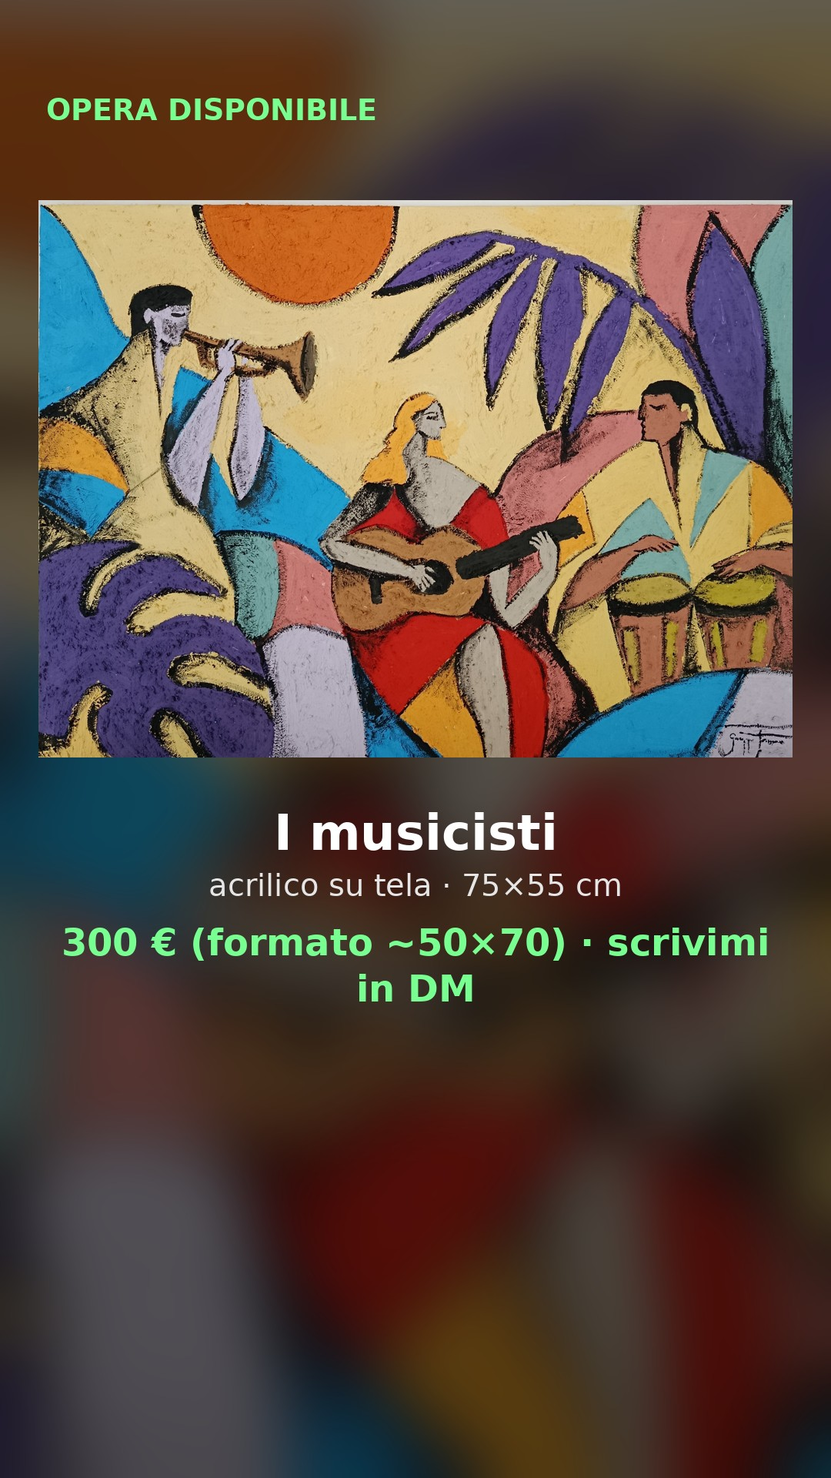
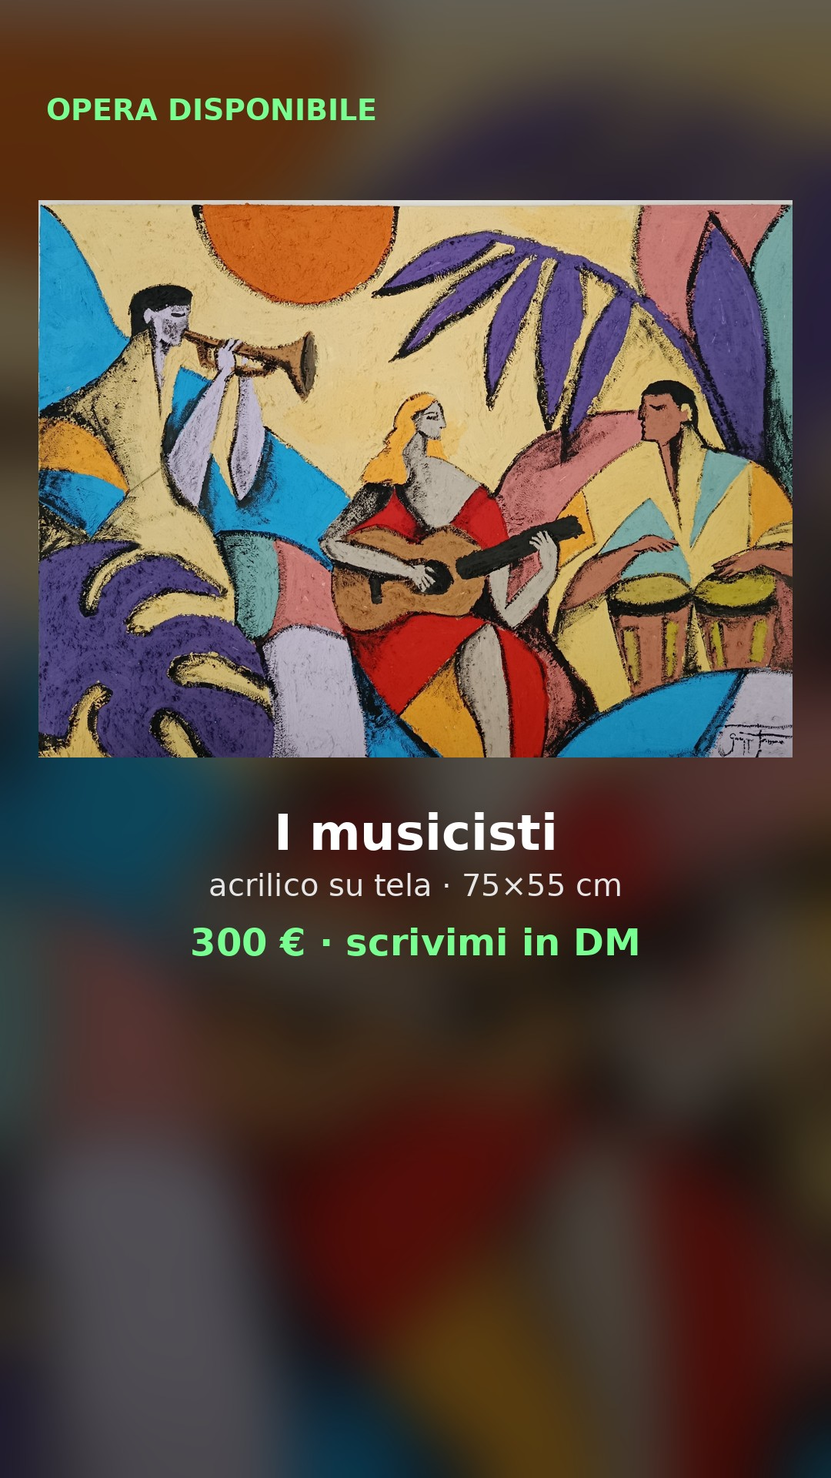
storie e catalogo aggiornati

Changed region(s): [[0.0611, 0.625, 0.9472, 0.6875]]

diff --git a/index.html b/index.html
@@ -16,7 +16,7 @@ figure img{width:100%;aspect-ratio:1/1;object-fit:cover;display:block}figcaption
 <p><a href="https://www.instagram.com/giuseppe.ferraro.86/">Instagram</a> · <a href="https://it.pinterest.com/gferraro86/">Pinterest</a> · per acquisti e commissioni: <a href="https://ig.me/m/giuseppe.ferraro.86">messaggio su Instagram</a></p></header>
 <section><h2>Opere disponibili</h2>
 <div class="nota">Opere originali firmate, con certificato di autenticità. Prezzi da 250 €. Consegna a mano a Napoli e provincia; spedizione in Italia a carico dell'acquirente (30-50 €). Faccio anche <strong>opere su misura</strong>: formato, soggetto, colori, cosa vuoi che racconti; lo stile è il mio. Tempi 1-2 settimane, acconto 30 %.</div>
-<div class="griglia"><figure><a href="#"><img src="opere/i-musicisti.jpg" alt="I musicisti" loading="lazy"></a><figcaption><h3>I musicisti</h3><p class="scheda">acrilico su tela · 75×55 cm · 2026</p><p class="prezzo">300 € (formato ~50×70) · <a href="https://ig.me/m/giuseppe.ferraro.86">scrivimi</a></p></figcaption></figure><figure><a href="https://www.instagram.com/reel/DbJCoHTsluN/"><img src="opere/donna-col-sombrero.jpg" alt="Donna col sombrero" loading="lazy"></a><figcaption><h3>Donna col sombrero</h3><p class="scheda">acrilico su tela · 50×70 cm · 2026</p><p class="prezzo">300 € · <a href="https://ig.me/m/giuseppe.ferraro.86">scrivimi</a></p></figcaption></figure><figure><a href="https://www.instagram.com/p/DQRhOVSjPGg/"><img src="opere/medusa.jpg" alt="Medusa" loading="lazy"></a><figcaption><h3>Medusa</h3><p class="scheda">acrilico su tela · 40×60 cm · 2025</p><p class="prezzo">250 € · <a href="https://ig.me/m/giuseppe.ferraro.86">scrivimi</a></p></figcaption></figure><figure><a href="https://www.instagram.com/p/DPt5XrRjHWL/"><img src="opere/i-tre-cavalli.jpg" alt="I tre cavalli" loading="lazy"></a><figcaption><h3>I tre cavalli</h3><p class="scheda">acrilico su tela · 90×60 cm · 2025</p><p class="prezzo">400 € · <a href="https://ig.me/m/giuseppe.ferraro.86">scrivimi</a></p></figcaption></figure><figure><a href="https://www.instagram.com/p/DOlR2BRjJBm/"><img src="opere/minotauro.jpg" alt="Minotauro" loading="lazy"></a><figcaption><h3>Minotauro</h3><p class="scheda">acrilico su tela · 40×60 cm · 2025</p><p class="prezzo">250 € · <a href="https://ig.me/m/giuseppe.ferraro.86">scrivimi</a></p></figcaption></figure><figure><a href="https://www.instagram.com/p/DKCzzQ3if0d/"><img src="opere/l-uomo-sulla-casa.jpg" alt="L'uomo sulla casa" loading="lazy"></a><figcaption><h3>L'uomo sulla casa</h3><p class="scheda">acrilico su tela · 100×100 cm · 2025</p><p class="prezzo">600 € · <a href="https://ig.me/m/giuseppe.ferraro.86">scrivimi</a></p></figcaption></figure><figure><a href="https://www.instagram.com/p/DDmhgxNC6IF/"><img src="opere/uomo-che-passeggia-di-notte-sul-sentiero-giallo.jpg" alt="Uomo che passeggia di notte sul sentiero giallo" loading="lazy"></a><figcaption><h3>Uomo che passeggia di notte sul sentiero giallo</h3><p class="scheda">acrilico su tela · 120×100 cm · 2024</p><p class="prezzo">650 € · <a href="https://ig.me/m/giuseppe.ferraro.86">scrivimi</a></p></figcaption></figure><figure><a href="https://www.instagram.com/p/C5d8ueWCTgj/"><img src="opere/uomo-con-cavallo-sui-cubi.jpg" alt="Uomo con cavallo sui cubi" loading="lazy"></a><figcaption><h3>Uomo con cavallo sui cubi</h3><p class="scheda">acrilico su tela · 100×100 cm · 2024</p><p class="prezzo">600 € · <a href="https://ig.me/m/giuseppe.ferraro.86">scrivimi</a></p></figcaption></figure></div></section>
+<div class="griglia"><figure><a href="#"><img src="opere/i-musicisti.jpg" alt="I musicisti" loading="lazy"></a><figcaption><h3>I musicisti</h3><p class="scheda">acrilico su tela · 75×55 cm · 2026</p><p class="prezzo">300 € · <a href="https://ig.me/m/giuseppe.ferraro.86">scrivimi</a></p></figcaption></figure><figure><a href="https://www.instagram.com/reel/DbJCoHTsluN/"><img src="opere/donna-col-sombrero.jpg" alt="Donna col sombrero" loading="lazy"></a><figcaption><h3>Donna col sombrero</h3><p class="scheda">acrilico su tela · 50×70 cm · 2026</p><p class="prezzo">300 € · <a href="https://ig.me/m/giuseppe.ferraro.86">scrivimi</a></p></figcaption></figure><figure><a href="https://www.instagram.com/p/DQRhOVSjPGg/"><img src="opere/medusa.jpg" alt="Medusa" loading="lazy"></a><figcaption><h3>Medusa</h3><p class="scheda">acrilico su tela · 40×60 cm · 2025</p><p class="prezzo">250 € · <a href="https://ig.me/m/giuseppe.ferraro.86">scrivimi</a></p></figcaption></figure><figure><a href="https://www.instagram.com/p/DPt5XrRjHWL/"><img src="opere/i-tre-cavalli.jpg" alt="I tre cavalli" loading="lazy"></a><figcaption><h3>I tre cavalli</h3><p class="scheda">acrilico su tela · 90×60 cm · 2025</p><p class="prezzo">400 € · <a href="https://ig.me/m/giuseppe.ferraro.86">scrivimi</a></p></figcaption></figure><figure><a href="https://www.instagram.com/p/DOlR2BRjJBm/"><img src="opere/minotauro.jpg" alt="Minotauro" loading="lazy"></a><figcaption><h3>Minotauro</h3><p class="scheda">acrilico su tela · 40×60 cm · 2025</p><p class="prezzo">250 € · <a href="https://ig.me/m/giuseppe.ferraro.86">scrivimi</a></p></figcaption></figure><figure><a href="https://www.instagram.com/p/DKCzzQ3if0d/"><img src="opere/l-uomo-sulla-casa.jpg" alt="L'uomo sulla casa" loading="lazy"></a><figcaption><h3>L'uomo sulla casa</h3><p class="scheda">acrilico su tela · 100×100 cm · 2025</p><p class="prezzo">600 € · <a href="https://ig.me/m/giuseppe.ferraro.86">scrivimi</a></p></figcaption></figure><figure><a href="https://www.instagram.com/p/DDmhgxNC6IF/"><img src="opere/uomo-che-passeggia-di-notte-sul-sentiero-giallo.jpg" alt="Uomo che passeggia di notte sul sentiero giallo" loading="lazy"></a><figcaption><h3>Uomo che passeggia di notte sul sentiero giallo</h3><p class="scheda">acrilico su tela · 120×100 cm · 2024</p><p class="prezzo">650 € · <a href="https://ig.me/m/giuseppe.ferraro.86">scrivimi</a></p></figcaption></figure><figure><a href="https://www.instagram.com/p/C5d8ueWCTgj/"><img src="opere/uomo-con-cavallo-sui-cubi.jpg" alt="Uomo con cavallo sui cubi" loading="lazy"></a><figcaption><h3>Uomo con cavallo sui cubi</h3><p class="scheda">acrilico su tela · 100×100 cm · 2024</p><p class="prezzo">600 € · <a href="https://ig.me/m/giuseppe.ferraro.86">scrivimi</a></p></figcaption></figure></div></section>
 <section><h2>Opere vendute</h2><p class="scheda">50 opere che hanno trovato casa dal 2020 a oggi.</p>
 <div class="griglia"><figure><a href="https://www.instagram.com/reel/Ddb9QD8OehM/"><img src="opere/2026-09-18-donna-e-cavallo-sotto-la-palma.jpg" alt="Donna e cavallo sotto la palma" loading="lazy"></a><figcaption><h3>Donna e cavallo sotto la palma</h3><p class="scheda">2026</p><p class="venduta">venduta</p></figcaption></figure><figure><a href="https://www.instagram.com/reel/DcqYGvgOWfW/"><img src="opere/2026-08-30-donna-con-cavallo-gatto-e-uccello.jpg" alt="Donna con cavallo, gatto e uccello" loading="lazy"></a><figcaption><h3>Donna con cavallo, gatto e uccello</h3><p class="scheda">2026</p><p class="venduta">venduta</p></figcaption></figure><figure><a href="https://www.instagram.com/reel/DbvxgXnMQle/"><img src="opere/2026-08-07-donna-col-cappello-da-cowboy.jpg" alt="Donna col cappello da cowboy" loading="lazy"></a><figcaption><h3>Donna col cappello da cowboy</h3><p class="scheda">2026</p><p class="venduta">venduta</p></figcaption></figure><figure><a href="https://www.instagram.com/reel/Dan0f_VIyaV/"><img src="opere/2026-07-10-donna-con-la-volpe.jpg" alt="Donna con la volpe" loading="lazy"></a><figcaption><h3>Donna con la volpe</h3><p class="scheda">2026</p><p class="venduta">venduta</p></figcaption></figure><figure><a href="https://www.instagram.com/p/DW_S8voDGsO/"><img src="opere/2026-04-11-due-volti-con-volpe-e-lupo.jpg" alt="Due volti con volpe e lupo" loading="lazy"></a><figcaption><h3>Due volti con volpe e lupo</h3><p class="scheda">2026</p><p class="venduta">venduta</p></figcaption></figure><figure><a href="https://www.instagram.com/p/DWrUkP1DFek/"><img src="opere/2026-04-03-uomo-e-donna-che-passeggiano-sul-sentier.jpg" alt="Uomo e donna che passeggiano sul sentiero rosa" loading="lazy"></a><figcaption><h3>Uomo e donna che passeggiano sul sentiero rosa</h3><p class="scheda">2026</p><p class="venduta">venduta</p></figcaption></figure><figure><a href="https://www.instagram.com/p/DQ7mmzDDMCw/"><img src="opere/2025-11-11-l-uomo-con-la-lira.jpg" alt="L'uomo con la lira" loading="lazy"></a><figcaption><h3>L'uomo con la lira</h3><p class="scheda">2025</p><p class="venduta">venduta</p></figcaption></figure><figure><a href="https://www.instagram.com/p/DPJAYBdDNlu/"><img src="opere/2025-09-28-ragazzo-con-la-maschera-da-cervo.jpg" alt="Ragazzo con la maschera da cervo" loading="lazy"></a><figcaption><h3>Ragazzo con la maschera da cervo</h3><p class="scheda">2025</p><p class="venduta">venduta</p></figcaption></figure><figure><a href="https://www.instagram.com/p/DOb9886DEC1/"><img src="opere/2025-09-10-il-pescatore.jpg" alt="Il pescatore" loading="lazy"></a><figcaption><h3>Il pescatore</h3><p class="scheda">2025</p><p class="venduta">venduta</p></figcaption></figure><figure><a href="https://www.instagram.com/p/DORRtISjK5n/"><img src="opere/2025-09-06-sirena.jpg" alt="Sirena" loading="lazy"></a><figcaption><h3>Sirena</h3><p class="scheda">2025</p><p class="venduta">venduta</p></figcaption></figure><figure><a href="https://www.instagram.com/p/DNOQVxzspg3/"><img src="opere/2025-08-11-donna-con-airone-e-cavallo.jpg" alt="Donna con airone e cavallo" loading="lazy"></a><figcaption><h3>Donna con airone e cavallo</h3><p class="scheda">2025</p><p class="venduta">venduta</p></figcaption></figure><figure><a href="https://www.instagram.com/p/DCJd0Dxuju1/"><img src="opere/2024-11-09-uomo-e-donna-sul-cubo-in-mezzo-al-mare-d.jpg" alt="Uomo e donna sul cubo in mezzo al mare, di notte" loading="lazy"></a><figcaption><h3>Uomo e donna sul cubo in mezzo al mare, di notte</h3><p class="scheda">2024</p><p class="venduta">venduta</p></figcaption></figure><figure><a href="https://www.instagram.com/p/C-PkqcFC4ue/"><img src="opere/2024-08-04-uomo-col-bimbo-sulle-spalle-al-tramonto.jpg" alt="Uomo col bimbo sulle spalle al tramonto" loading="lazy"></a><figcaption><h3>Uomo col bimbo sulle spalle al tramonto</h3><p class="scheda">2024</p><p class="venduta">venduta</p></figcaption></figure><figure><a href="https://www.instagram.com/p/C8RjvHGiUP_/"><img src="opere/2024-06-16-astratto-blu.jpg" alt="Astratto blu" loading="lazy"></a><figcaption><h3>Astratto blu</h3><p class="scheda">2024</p><p class="venduta">venduta</p></figcaption></figure><figure><a href="https://www.instagram.com/p/C8AQ7G2CWhV/"><img src="opere/2024-06-09-mareluna.jpg" alt="Mareluna" loading="lazy"></a><figcaption><h3>Mareluna</h3><p class="scheda">2024</p><p class="venduta">venduta</p></figcaption></figure><figure><a href="https://www.instagram.com/p/C4nWwS0C9hw/"><img src="opere/2024-03-17-blu-oltremare.jpg" alt="Blu Oltremare" loading="lazy"></a><figcaption><h3>Blu Oltremare</h3><p class="scheda">2024</p><p class="venduta">venduta</p></figcaption></figure><figure><a href="https://www.instagram.com/p/C3e8ZBxIJuA/"><img src="opere/2024-02-18-senza-titolo.jpg" alt="Senza titolo" loading="lazy"></a><figcaption><h3>Senza titolo</h3><p class="scheda">2024</p><p class="venduta">venduta</p></figcaption></figure><figure><a href="https://www.instagram.com/p/C2mtG2CIB0b/"><img src="opere/2024-01-27-echi-passivi-di-culture-violentate.jpg" alt="Echi passivi di culture violentate" loading="lazy"></a><figcaption><h3>Echi passivi di culture violentate</h3><p class="scheda">2024</p><p class="venduta">venduta</p></figcaption></figure><figure><a href="https://www.instagram.com/p/C2U0Udaom1l/"><img src="opere/2024-01-20-senza-titolo.jpg" alt="Senza titolo" loading="lazy"></a><figcaption><h3>Senza titolo</h3><p class="scheda">2024</p><p class="venduta">venduta</p></figcaption></figure><figure><a href="https://www.instagram.com/p/C2LdQeLID81/"><img src="opere/2024-01-16-allucinazioni-d-un-insonne.jpg" alt="Allucinazioni d'un insonne" loading="lazy"></a><figcaption><h3>Allucinazioni d'un insonne</h3><p class="scheda">2024</p><p class="venduta">venduta</p></figcaption></figure><figure><a href="https://www.instagram.com/p/C1hb6Q7C1nd/"><img src="opere/2023-12-31-aborto-metafisico-del-sogno.jpg" alt="Aborto metafisico del sogno" loading="lazy"></a><figcaption><h3>Aborto metafisico del sogno</h3><p class="scheda">2023</p><p class="venduta">venduta</p></figcaption></figure><figure><a href="https://www.instagram.com/p/C1KlD-cIo61/"><img src="opere/2023-12-22-sogno-senza-senso.jpg" alt="Sogno senza senso" loading="lazy"></a><figcaption><h3>Sogno senza senso</h3><p class="scheda">2023</p><p class="venduta">venduta</p></figcaption></figure><figure><a href="https://www.instagram.com/p/C09sj6so_9e/"><img src="opere/2023-12-17-luna-di-notte.jpg" alt="Luna di notte" loading="lazy"></a><figcaption><h3>Luna di notte</h3><p class="scheda">2023</p><p class="venduta">venduta</p></figcaption></figure><figure><a href="https://www.instagram.com/p/C0ocaL-i_9R/"><img src="opere/2023-12-09-la-caduta-di-icaro.jpg" alt="La caduta di Icaro" loading="lazy"></a><figcaption><h3>La caduta di Icaro</h3><p class="scheda">2023</p><p class="venduta">venduta</p></figcaption></figure><figure><a href="https://www.instagram.com/p/Cys3L32stU4/"><img src="opere/2023-10-22-kore-e-ione.jpg" alt="Kore e Ione" loading="lazy"></a><figcaption><h3>Kore e Ione</h3><p class="scheda">2023</p><p class="venduta">venduta</p></figcaption></figure><figure><a href="https://www.instagram.com/p/CxyPACGsx5C/"><img src="opere/2023-09-29-eva-adamo.jpg" alt="Eva & Adamo" loading="lazy"></a><figcaption><h3>Eva & Adamo</h3><p class="scheda">2023</p><p class="venduta">venduta</p></figcaption></figure><figure><a href="https://www.instagram.com/p/CvU4x2voh5n/"><img src="opere/2023-07-30-la-notte-di-pasifae.jpg" alt="La notte di Pasifae" loading="lazy"></a><figcaption><h3>La notte di Pasifae</h3><p class="scheda">2023</p><p class="venduta">venduta</p></figcaption></figure><figure><a href="https://www.instagram.com/p/Cso9gg-M-LC/"><img src="opere/2023-05-24-prometeo.jpg" alt="Prometeo" loading="lazy"></a><figcaption><h3>Prometeo</h3><p class="scheda">2023</p><p class="venduta">venduta</p></figcaption></figure><figure><a href="https://www.instagram.com/p/CnJ03_vt-_i/"><img src="opere/2023-01-08-essere-o-non-essere-questo-il-dilemma.jpg" alt="Essere, o non essere, questo è il dilemma" loading="lazy"></a><figcaption><h3>Essere, o non essere, questo è il dilemma</h3><p class="scheda">2023</p><p class="venduta">venduta</p></figcaption></figure><figure><a href="https://www.instagram.com/p/CmBfewXsCCk/"><img src="opere/2022-12-11-minotauro.jpg" alt="Minotauro" loading="lazy"></a><figcaption><h3>Minotauro</h3><p class="scheda">2022</p><p class="venduta">venduta</p></figcaption></figure><figure><a href="https://www.instagram.com/p/CkVLn97D6iL/"><img src="opere/2022-10-30-orfeo-euridice.jpg" alt="Orfeo & Euridice" loading="lazy"></a><figcaption><h3>Orfeo & Euridice</h3><p class="scheda">2022</p><p class="venduta">venduta</p></figcaption></figure><figure><a href="https://www.instagram.com/p/CjI9yuejFGw/"><img src="opere/2022-09-30-il-minotauro.jpg" alt="Il Minotauro" loading="lazy"></a><figcaption><h3>Il Minotauro</h3><p class="scheda">2022</p><p class="venduta">venduta</p></figcaption></figure><figure><a href="https://www.instagram.com/p/Cg39hBSM2fG/"><img src="opere/2022-08-05-il-fauno.jpg" alt="Il Fauno" loading="lazy"></a><figcaption><h3>Il Fauno</h3><p class="scheda">2022</p><p class="venduta">venduta</p></figcaption></figure><figure><a href="https://www.instagram.com/p/CevwaFLDAwm/"><img src="opere/2022-06-13-circe.jpg" alt="Circe" loading="lazy"></a><figcaption><h3>Circe</h3><p class="scheda">2022</p><p class="venduta">venduta</p></figcaption></figure><figure><a href="https://www.instagram.com/p/CebWDjUDjfQ/"><img src="opere/2022-06-05-untitled.jpg" alt="Untitled" loading="lazy"></a><figcaption><h3>Untitled</h3><p class="scheda">2022</p><p class="venduta">venduta</p></figcaption></figure><figure><a href="https://www.instagram.com/p/Cdd_qwrq8YS/"><img src="opere/2022-05-12-latina-america.jpg" alt="Latina America" loading="lazy"></a><figcaption><h3>Latina America</h3><p class="scheda">2022</p><p class="venduta">venduta</p></figcaption></figure><figure><a href="https://www.instagram.com/p/CZo-8DcqEp3/"><img src="opere/2022-02-06-il-facchino-e-le-tre-dame.jpg" alt="Il facchino e le tre dame" loading="lazy"></a><figcaption><h3>Il facchino e le tre dame</h3><p class="scheda">2022</p><p class="venduta">venduta</p></figcaption></figure><figure><a href="https://www.instagram.com/p/CYozj2WKxy_/"><img src="opere/2022-01-12-senza-titolo.jpg" alt="Senza titolo" loading="lazy"></a><figcaption><h3>Senza titolo</h3><p class="scheda">2022</p><p class="venduta">venduta</p></figcaption></figure><figure><a href="https://www.instagram.com/p/CYZYtsEK1Sa/"><img src="opere/2022-01-06-prima-dell-alba.jpg" alt="Prima dell'alba" loading="lazy"></a><figcaption><h3>Prima dell'alba</h3><p class="scheda">2022</p><p class="venduta">venduta</p></figcaption></figure><figure><a href="https://www.instagram.com/p/CXDtycnqbbO/"><img src="opere/2021-12-04-il-giorno-prima-del-nulla.jpg" alt="Il giorno prima del nulla" loading="lazy"></a><figcaption><h3>Il giorno prima del nulla</h3><p class="scheda">2021</p><p class="venduta">venduta</p></figcaption></figure><figure><a href="https://www.instagram.com/p/CTkJpU0KV5I/"><img src="opere/2021-09-08-dedalo-icaro.jpg" alt="Dedalo & Icaro" loading="lazy"></a><figcaption><h3>Dedalo & Icaro</h3><p class="scheda">2021</p><p class="venduta">venduta</p></figcaption></figure><figure><a href="https://www.instagram.com/p/CTJ9j4Tqiy3/"><img src="opere/2021-08-29-incontro-al-chiaro-di-luna.jpg" alt="Incontro al chiaro di luna" loading="lazy"></a><figcaption><h3>Incontro al chiaro di luna</h3><p class="scheda">2021</p><p class="venduta">venduta</p></figcaption></figure><figure><a href="https://www.instagram.com/p/CMrAi_qhGEQ/"><img src="opere/2021-03-21-col-favore-della-notte.jpg" alt="Col favore della notte" loading="lazy"></a><figcaption><h3>Col favore della notte</h3><p class="scheda">2021</p><p class="venduta">venduta</p></figcaption></figure><figure><a href="https://www.instagram.com/p/CL9aOzWhbYO/"><img src="opere/2021-03-03-in-pace.jpg" alt="In pace" loading="lazy"></a><figcaption><h3>In pace</h3><p class="scheda">2021</p><p class="venduta">venduta</p></figcaption></figure><figure><a href="https://www.instagram.com/p/CLt3KIFh5kH/"><img src="opere/2021-02-25-amanti-in-blu.jpg" alt="Amanti in blu" loading="lazy"></a><figcaption><h3>Amanti in blu</h3><p class="scheda">2021</p><p class="venduta">venduta</p></figcaption></figure><figure><a href="https://www.instagram.com/p/CJdyzJ1B8Oo/"><img src="opere/2020-12-31-l-ultima-notte-del-mondo.jpg" alt="L'Ultima Notte Del Mondo" loading="lazy"></a><figcaption><h3>L'Ultima Notte Del Mondo</h3><p class="scheda">2020</p><p class="venduta">venduta</p></figcaption></figure><figure><a href="https://www.instagram.com/p/CI8ZBsJB9YA/"><img src="opere/2020-12-18-il-giardino-al-chiaro-di-luna.jpg" alt="Il Giardino Al Chiaro Di Luna" loading="lazy"></a><figcaption><h3>Il Giardino Al Chiaro Di Luna</h3><p class="scheda">2020</p><p class="venduta">venduta</p></figcaption></figure><figure><a href="https://www.instagram.com/p/CIqZKPcB3vj/"><img src="opere/2020-12-11-sogno-d-una-notte-di-mezza-estate.jpg" alt="Sogno d'una notte di mezza estate" loading="lazy"></a><figcaption><h3>Sogno d'una notte di mezza estate</h3><p class="scheda">2020</p><p class="venduta">venduta</p></figcaption></figure><figure><a href="https://www.instagram.com/p/CE46Q-9B8B-/"><img src="opere/2020-09-08-once-in-eden.jpg" alt="Once In Eden" loading="lazy"></a><figcaption><h3>Once In Eden</h3><p class="scheda">2020</p><p class="venduta">venduta</p></figcaption></figure><figure><a href="https://www.instagram.com/p/CEEwn98BODy/"><img src="opere/2020-08-19-night-lovers.jpg" alt="Night Lovers" loading="lazy"></a><figcaption><h3>Night Lovers</h3><p class="scheda">2020</p><p class="venduta">venduta</p></figcaption></figure></div></section>
 <footer>© Giuseppe Ferraro · <a href="privacy.html">Norme sulla privacy</a></footer>

diff --git a/storie.html b/storie.html
@@ -1,1 +1,1 @@
-<!DOCTYPE html><html lang="it"><head><meta charset="UTF-8"><meta name="viewport" content="width=device-width, initial-scale=1"><title>Storie da caricare</title><meta name="robots" content="noindex"><style>body{font-family:system-ui;max-width:600px;margin:20px auto;padding:0 16px}img{width:100%;border-radius:10px;margin:6px 0 2px}p{margin:0 0 22px;font-size:.9rem;color:#555}</style></head><body><h1>Storie da caricare</h1><p>Tieni premuto su ogni immagine e salvala nel telefono, poi pubblicala come storia e aggiungila all'highlight indicato. Le prime 9 → «Opere disponibili» (la 9 con l'adesivo Link), le 5 «acquistare» → «Come acquistare».</p><img src="storie/01-i-musicisti.jpg" alt="I musicisti · 75×55 · 300 € (formato ~50×70)"><p>01-i-musicisti.jpg — I musicisti · 75×55 · 300 € (formato ~50×70)</p><img src="storie/02-donna-col-sombrero.jpg" alt="Donna col sombrero · 50×70 · 300 €"><p>02-donna-col-sombrero.jpg — Donna col sombrero · 50×70 · 300 €</p><img src="storie/03-medusa.jpg" alt="Medusa · 40×60 · 250 €"><p>03-medusa.jpg — Medusa · 40×60 · 250 €</p><img src="storie/04-i-tre-cavalli.jpg" alt="I tre cavalli · 90×60 · 400 €"><p>04-i-tre-cavalli.jpg — I tre cavalli · 90×60 · 400 €</p><img src="storie/05-minotauro.jpg" alt="Minotauro · 40×60 · 250 €"><p>05-minotauro.jpg — Minotauro · 40×60 · 250 €</p><img src="storie/06-l-uomo-sulla-casa.jpg" alt="L'uomo sulla casa · 100×100 · 600 €"><p>06-l-uomo-sulla-casa.jpg — L'uomo sulla casa · 100×100 · 600 €</p><img src="storie/07-uomo-che-passeggia-di-notte-sul-sentiero-giallo.jpg" alt="Uomo che passeggia di notte sul sentiero giallo · 120×100 · 650 €"><p>07-uomo-che-passeggia-di-notte-sul-sentiero-giallo.jpg — Uomo che passeggia di notte sul sentiero giallo · 120×100 · 650 €</p><img src="storie/08-uomo-con-cavallo-sui-cubi.jpg" alt="Uomo con cavallo sui cubi · 100×100 · 600 €"><p>08-uomo-con-cavallo-sui-cubi.jpg — Uomo con cavallo sui cubi · 100×100 · 600 €</p><img src="storie/09-catalogo.jpg" alt="Chiusura con il link al catalogo (adesivo Link)"><p>09-catalogo.jpg — Chiusura con il link al catalogo (adesivo Link)</p><img src="storie/acquistare-1.jpg" alt="Come acquistare 1/5 — Ti piace un'opera?"><p>acquistare-1.jpg — Come acquistare 1/5 — Ti piace un'opera?</p><img src="storie/acquistare-2.jpg" alt="Come acquistare 2/5 — Prezzi da 250 €"><p>acquistare-2.jpg — Come acquistare 2/5 — Prezzi da 250 €</p><img src="storie/acquistare-3.jpg" alt="Come acquistare 3/5 — Firmata e certificata"><p>acquistare-3.jpg — Come acquistare 3/5 — Firmata e certificata</p><img src="storie/acquistare-4.jpg" alt="Come acquistare 4/5 — Opere su misura"><p>acquistare-4.jpg — Come acquistare 4/5 — Opere su misura</p><img src="storie/acquistare-5.jpg" alt="Come acquistare 5/5 — Catalogo completo"><p>acquistare-5.jpg — Come acquistare 5/5 — Catalogo completo</p></body></html>
+<!DOCTYPE html><html lang="it"><head><meta charset="UTF-8"><meta name="viewport" content="width=device-width, initial-scale=1"><title>Storie da caricare</title><meta name="robots" content="noindex"><style>body{font-family:system-ui;max-width:600px;margin:20px auto;padding:0 16px}img{width:100%;border-radius:10px;margin:6px 0 2px}p{margin:0 0 22px;font-size:.9rem;color:#555}</style></head><body><h1>Storie da caricare</h1><p>Tieni premuto su ogni immagine e salvala nel telefono, poi pubblicala come storia e aggiungila all'highlight indicato. Le prime 9 → «Opere disponibili» (la 9 con l'adesivo Link), le 5 «acquistare» → «Come acquistare».</p><img src="storie/01-i-musicisti.jpg" alt="I musicisti · 75×55 · 300 €"><p>01-i-musicisti.jpg — I musicisti · 75×55 · 300 €</p><img src="storie/02-donna-col-sombrero.jpg" alt="Donna col sombrero · 50×70 · 300 €"><p>02-donna-col-sombrero.jpg — Donna col sombrero · 50×70 · 300 €</p><img src="storie/03-medusa.jpg" alt="Medusa · 40×60 · 250 €"><p>03-medusa.jpg — Medusa · 40×60 · 250 €</p><img src="storie/04-i-tre-cavalli.jpg" alt="I tre cavalli · 90×60 · 400 €"><p>04-i-tre-cavalli.jpg — I tre cavalli · 90×60 · 400 €</p><img src="storie/05-minotauro.jpg" alt="Minotauro · 40×60 · 250 €"><p>05-minotauro.jpg — Minotauro · 40×60 · 250 €</p><img src="storie/06-l-uomo-sulla-casa.jpg" alt="L'uomo sulla casa · 100×100 · 600 €"><p>06-l-uomo-sulla-casa.jpg — L'uomo sulla casa · 100×100 · 600 €</p><img src="storie/07-uomo-che-passeggia-di-notte-sul-sentiero-giallo.jpg" alt="Uomo che passeggia di notte sul sentiero giallo · 120×100 · 650 €"><p>07-uomo-che-passeggia-di-notte-sul-sentiero-giallo.jpg — Uomo che passeggia di notte sul sentiero giallo · 120×100 · 650 €</p><img src="storie/08-uomo-con-cavallo-sui-cubi.jpg" alt="Uomo con cavallo sui cubi · 100×100 · 600 €"><p>08-uomo-con-cavallo-sui-cubi.jpg — Uomo con cavallo sui cubi · 100×100 · 600 €</p><img src="storie/09-catalogo.jpg" alt="Chiusura con il link al catalogo (adesivo Link)"><p>09-catalogo.jpg — Chiusura con il link al catalogo (adesivo Link)</p><img src="storie/acquistare-1.jpg" alt="Come acquistare 1/5 — Ti piace un'opera?"><p>acquistare-1.jpg — Come acquistare 1/5 — Ti piace un'opera?</p><img src="storie/acquistare-2.jpg" alt="Come acquistare 2/5 — Prezzi da 250 €"><p>acquistare-2.jpg — Come acquistare 2/5 — Prezzi da 250 €</p><img src="storie/acquistare-3.jpg" alt="Come acquistare 3/5 — Firmata e certificata"><p>acquistare-3.jpg — Come acquistare 3/5 — Firmata e certificata</p><img src="storie/acquistare-4.jpg" alt="Come acquistare 4/5 — Opere su misura"><p>acquistare-4.jpg — Come acquistare 4/5 — Opere su misura</p><img src="storie/acquistare-5.jpg" alt="Come acquistare 5/5 — Catalogo completo"><p>acquistare-5.jpg — Come acquistare 5/5 — Catalogo completo</p></body></html>
